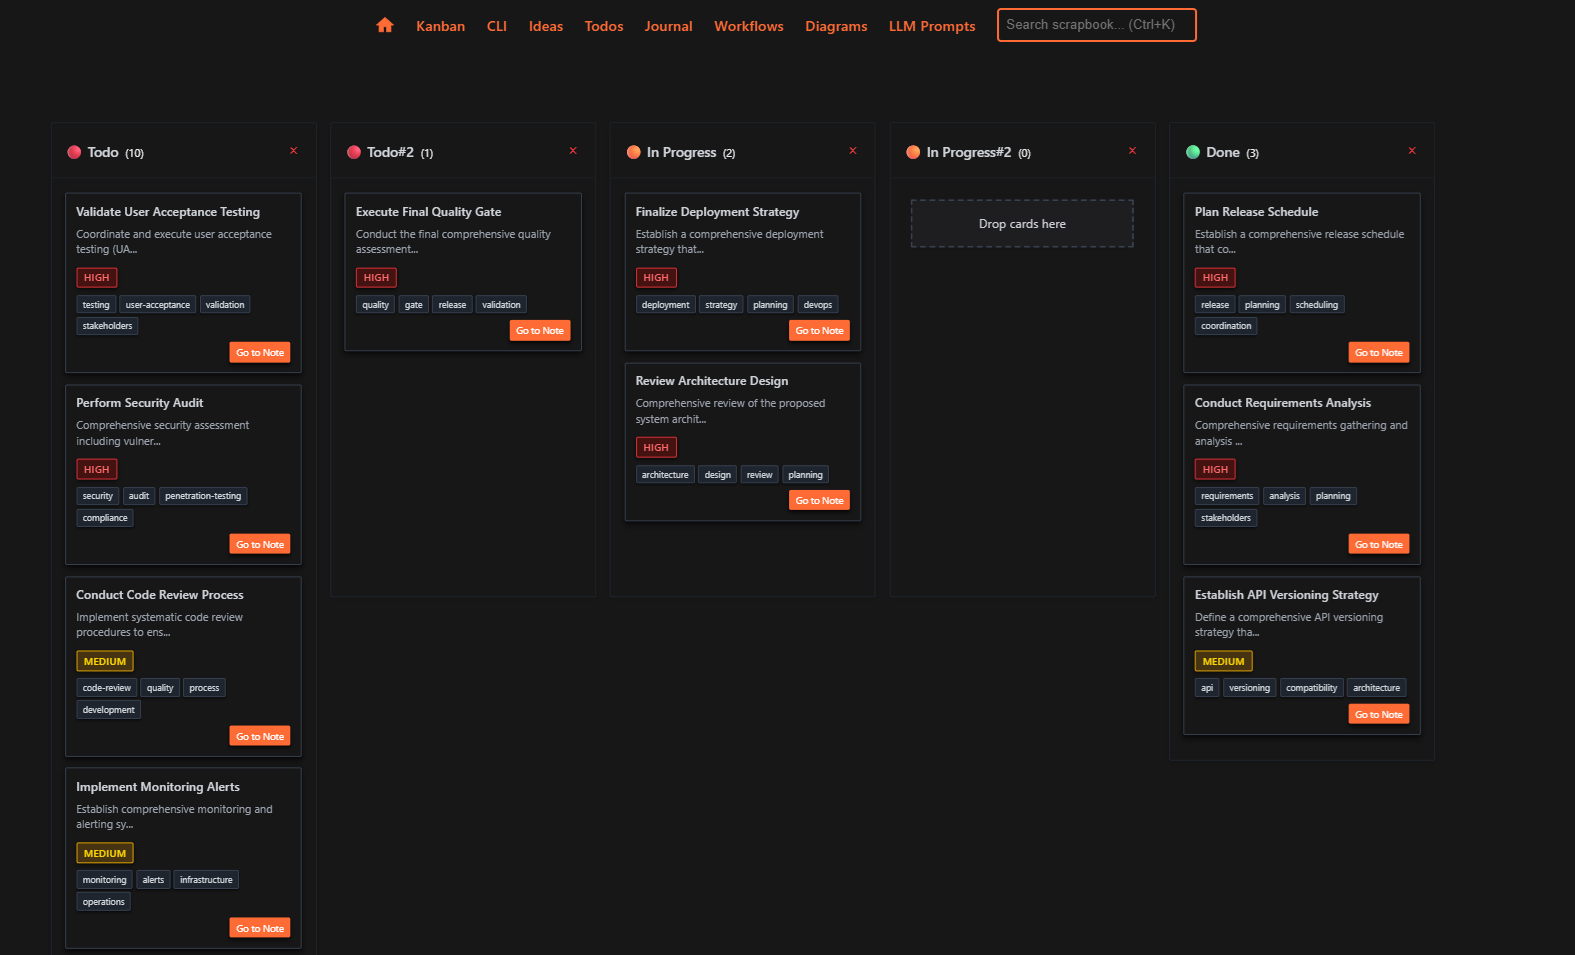
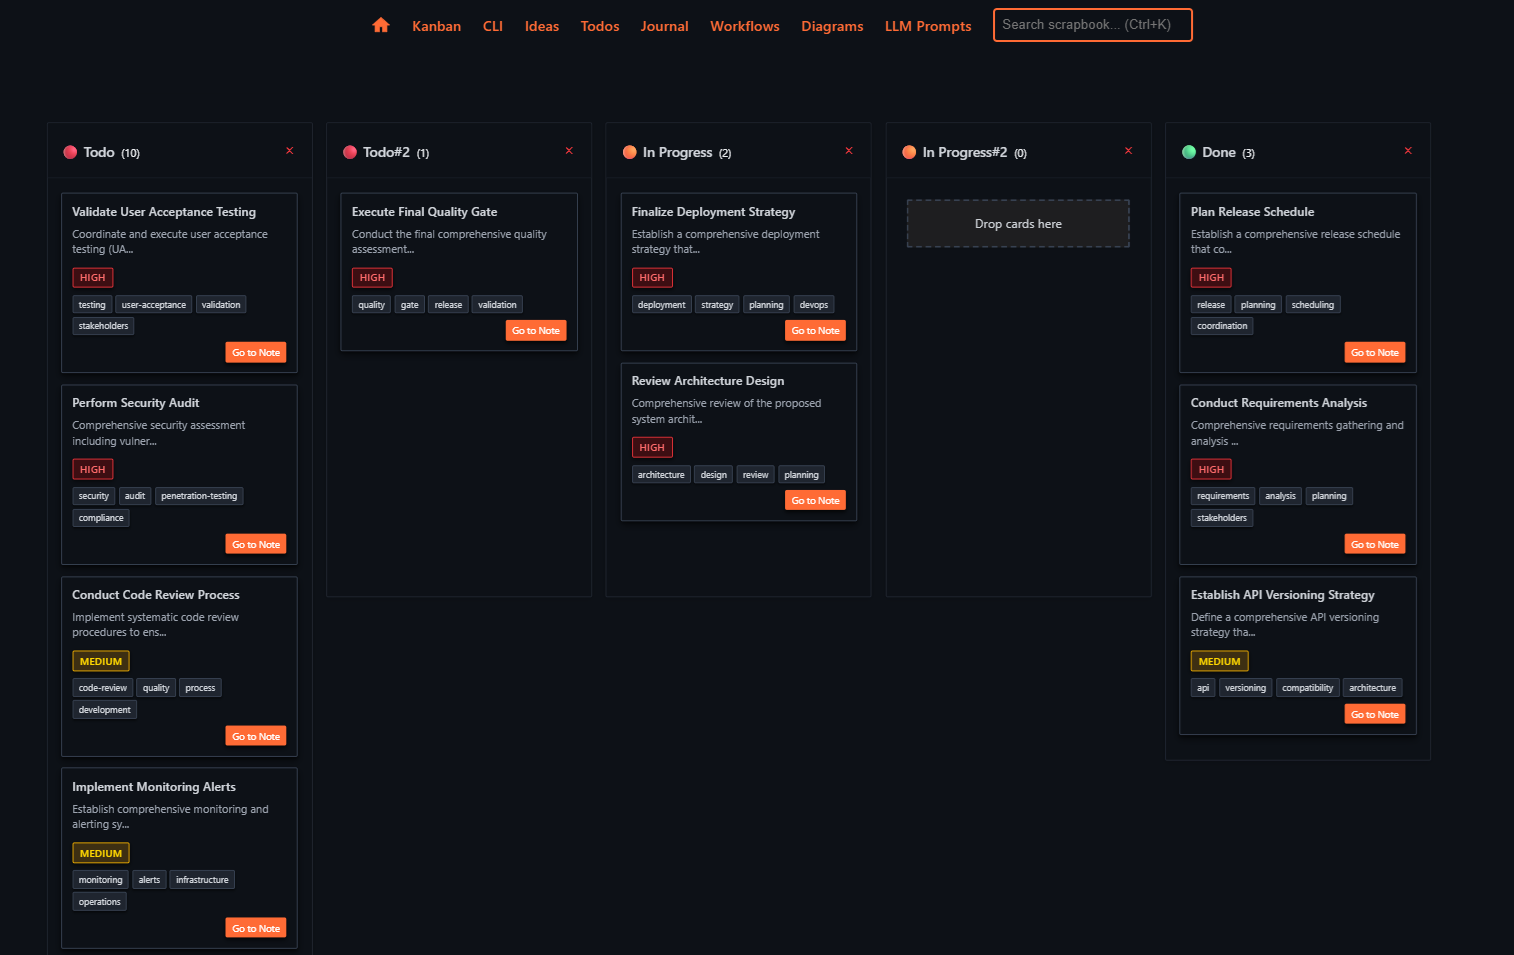
sleep time

diff --git a/README.md b/README.md
@@ -4,6 +4,10 @@
   <img src="assets/scrapbook-md.png" alt="scrapbook-md" />
 </div>
 
+<div align="center">
+  <img src="assets/scrapbook-md-kanban.png" alt="scrapbook-md" />
+</div>
+
 A lightweight CLI tool and documentation website for quickly capturing and organizing ideas, prompts, todos, journal entries, and workflows in markdown format. Capture quick notes via a set of python CLI commands straight to a Docusaurus front end with mermaid support
 
 ## Quick Setup
